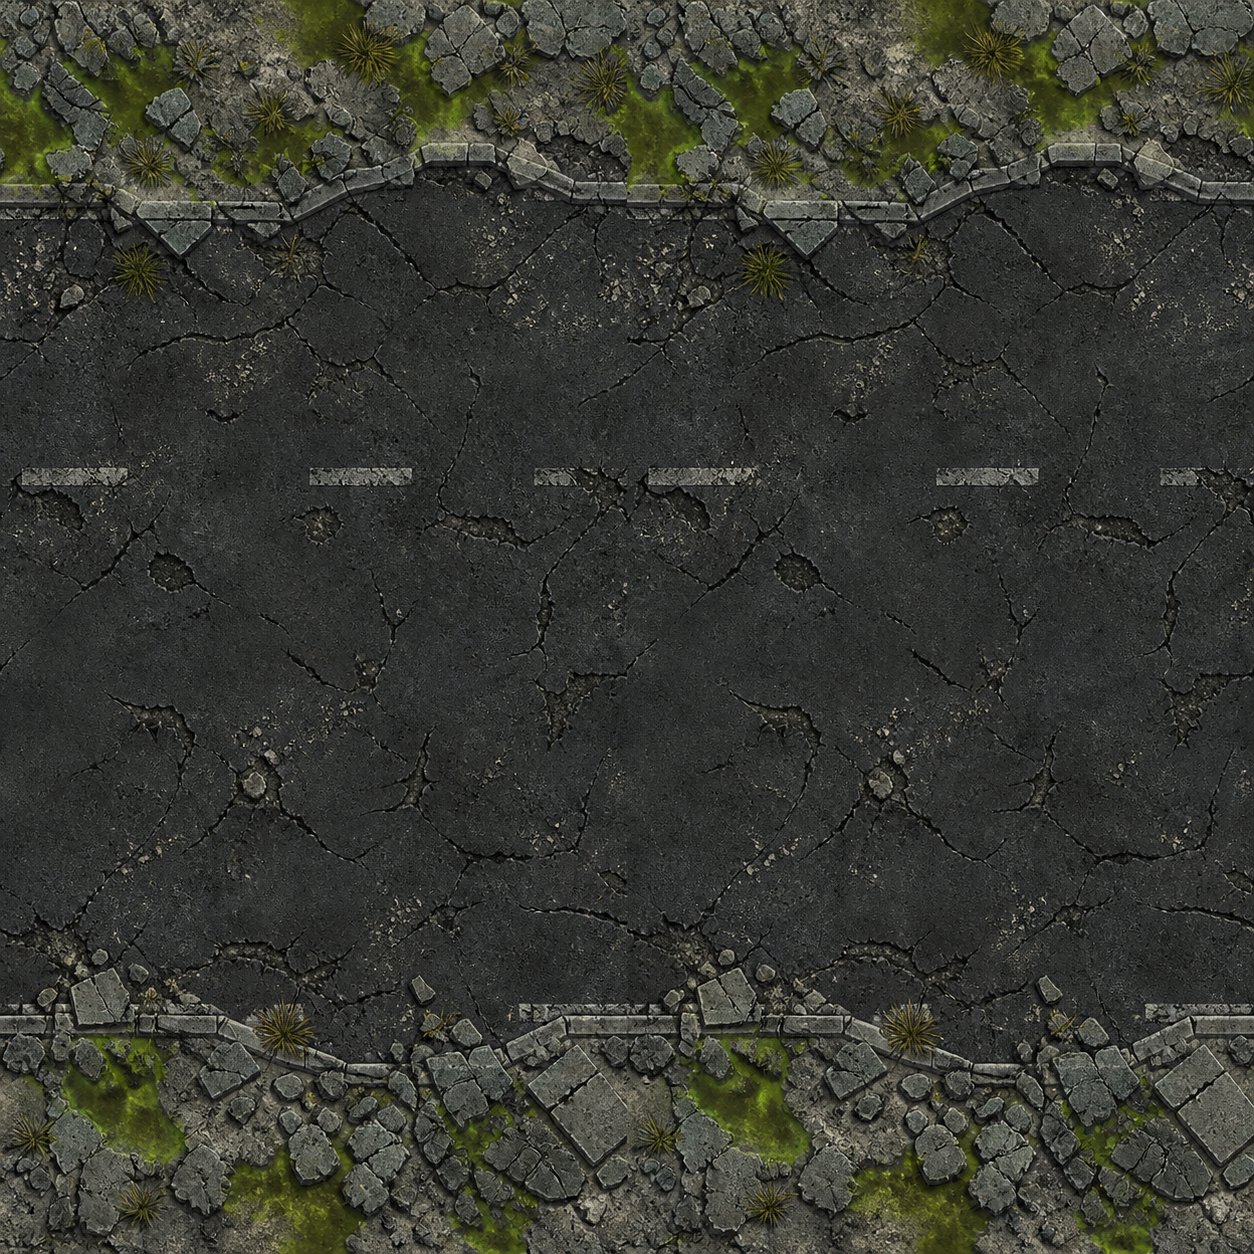
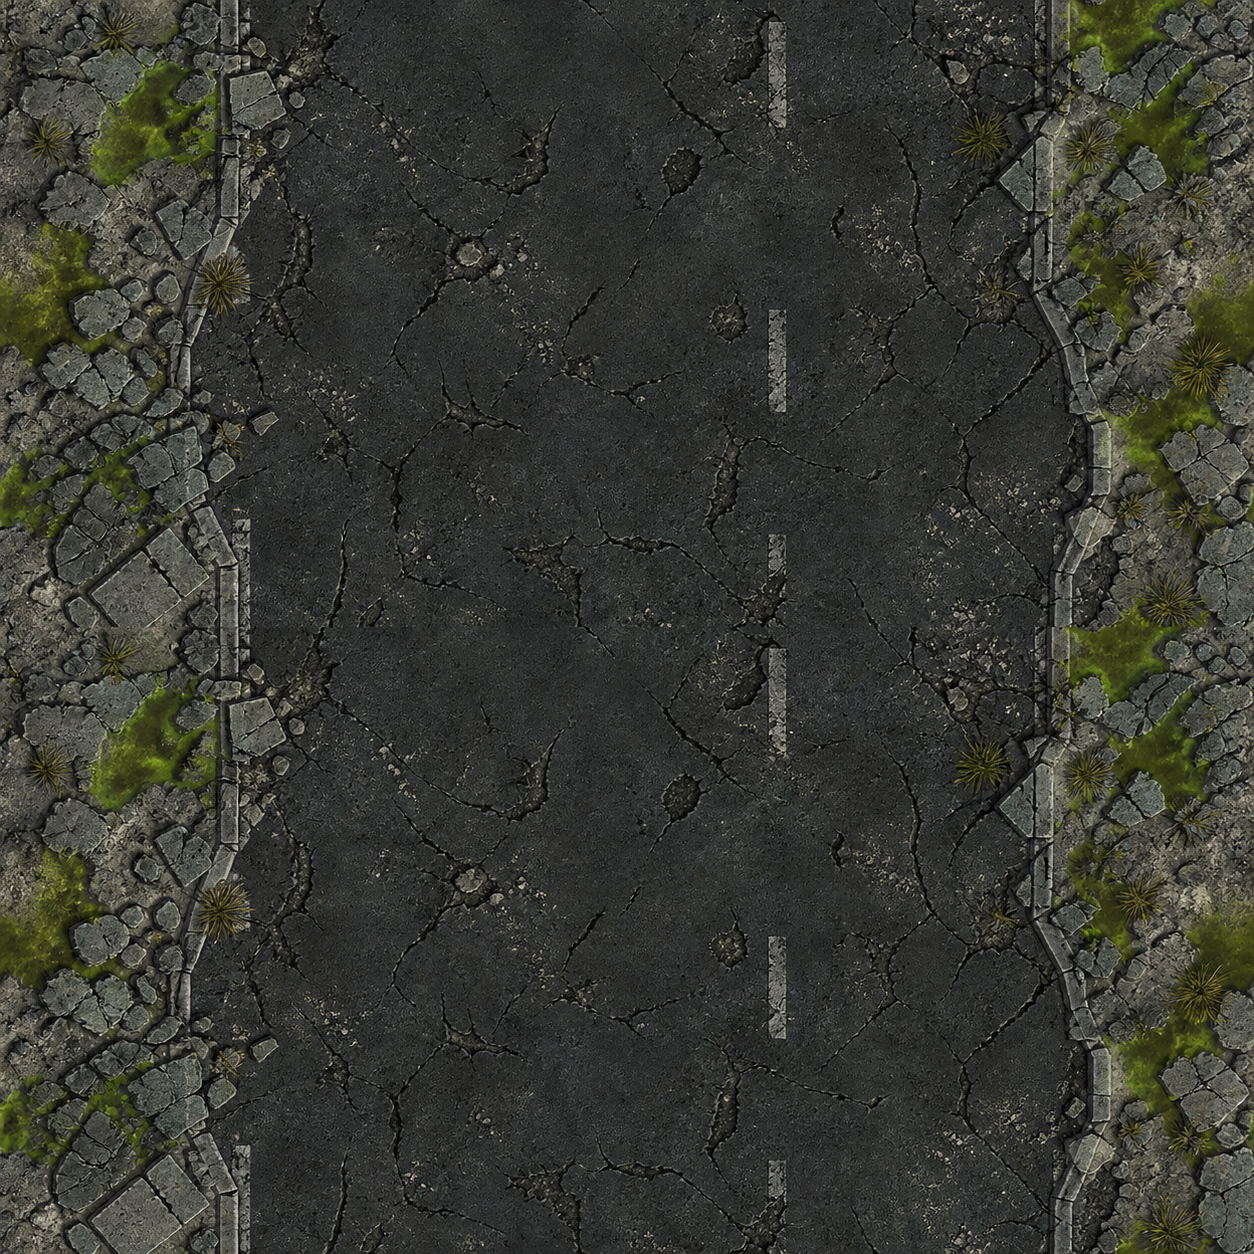
fix: bordi lane con materiale path e sorgente urban verticale (fase 2)
Bordi/incroci delle lane tematiche: se nessuna strada principale attraversa
la cella, road_edge/road_curve_*/road_intersection risolvono il materiale
path_variation invece del bordo stradale (nuovo helper pubblico
route_cell_uses_lane_surface, tile id semantici invariati).

Il PNG road_border_defined di urban_ruins e' ruotato una tantum a nativo
verticale come gli altri temi; il contratto tema aggiornato elimina il caso
speciale di orientamento. Bump TileBakeCache.FORMAT_VERSION 22->23 per
invalidare le mappe material pre-unificazione.

Guardrail: probe lane-edge in generated_texture_test, review QA lane-aware.
GUT assets/environment verdi; QA toxic/review/generated_art exit 0.

diff --git a/assets/README.md b/assets/README.md
@@ -122,19 +122,24 @@ dettaglio/storico e non sono piu superfici runtime strada. Il manifest registra 
 stato `final`, provenienza `openai_image_generation`, licenza
 `Project original` e le liste di ruoli.
 Ogni `road_border_defined` resta un solo sorgente PNG, ma il runtime lo espone
-come due materiali orientati. La source orientation viene letta per tema:
-`urban_ruins` e nativo orizzontale, quindi `__horizontal` usa la sorgente e
-`__vertical` la variante ruotata; gli altri temi attivi restano nativi
-verticali. Le celle route mantengono i propri tile semantici; cambia solo il
-materiale di superficie scelto dal resolver.
+come quattro materiali: bordo `__vertical`/`__horizontal` e core interno
+`__core_vertical`/`__core_horizontal` (banda centrale ritagliata, senza le
+strisce di bordo). Dal pass di unificazione strade tutti i sorgenti sono
+nativi verticali (`urban_ruins` e stato ruotato una tantum su disco); la
+source orientation resta un campo del contratto tema
+(`THEME_CONTRACTS.native_border_orientation`). Le celle route mantengono i
+propri tile semantici; cambia solo il materiale di superficie scelto dal
+resolver.
 La board `generated_biome_art_visual_qa.gd` mostra entrambe le varianti runtime
 per `urban_ruins`, `volcanic`, `frozen_tundra` e `swamp`.
 
 I set generati sono materiali di superficie per ground, route e cliff. Nei
-quattro biomi con `generated_theme_id`, `main_road`, `road` e
-`road_intersection` usano i PNG `road_border_defined` come materiali orientati
-`__vertical`/`__horizontal`, mentre `service_lane`, `ash_lane`,
-`packed_snow_path` e `wooden_walkway` usano `path_variation`.
+quattro biomi con `generated_theme_id`, le celle interne `main_road`/`road`
+usano il core `road_border_defined__core_vertical`/`__core_horizontal`,
+mentre `road_edge`, `road_curve_*` e `road_intersection` usano il bordo
+orientato `__vertical`/`__horizontal`; `service_lane`, `ash_lane`,
+`packed_snow_path` e `wooden_walkway` usano `path_variation`, anche sui
+propri bordi e incroci quando nessuna strada principale attraversa la cella.
 `tile_id` e sezione restano quelli del manifest per semantica, collisioni e
 debug, ma `material_asset_id`/`material_asset_path` puntano ai raster generated.
 Anche i passage road-like tra biomi (`bridge`, `snow_pass`, `broken_gate`,

diff --git a/docs/biome_road_unification_plan.md b/docs/biome_road_unification_plan.md
@@ -1,8 +1,8 @@
 # Report differenze biomi + piano di unificazione strade
 
-Stato: 2026-07-09 — fasi 0 e 1 eseguite (vedi note in fondo alle rispettive
-sezioni); fasi 2-5 aperte. Il report differenze descrive lo stato *precedente*
-alle fasi eseguite.
+Stato: 2026-07-09 — fasi 0, 1 e 2 eseguite (vedi note in fondo alle
+rispettive sezioni); fasi 3-5 aperte. Il report differenze descrive lo stato
+*precedente* alle fasi eseguite.
 
 Fonte del problema percepito ("non si capisce piu niente"): oggi convivono
 **tre pipeline di rendering strada diverse** piu una serie di eccezioni
@@ -174,6 +174,20 @@ e `biome_rendering_review` exit 0, ispezione immagini frozen/toxic.
   `urban_ruins_terrain_27_road_border_defined_01.png` in verticale (una
   tantum) ed eliminare `ROAD_BORDER_HORIZONTAL_SOURCE_THEME_IDS` e il caso
   speciale runtime.
+
+**Eseguita 2026-07-09.** Bordi/incroci lane: nuovo helper pubblico
+`IsometricTileResolver.route_cell_uses_lane_surface` — se nessuna strada
+principale attraversa la cella, `road_edge`/`road_curve_*`/`road_intersection`
+risolvono `ROLE_PATH` (materiale `path_variation`) invece del bordo stradale;
+il tile id semantico resta invariato. Asset urban: PNG ruotato 90° CW su disco
+(ora nativo verticale come gli altri temi), contratto
+`native_border_orientation` aggiornato; il campo resta nel contratto per
+eventuali temi futuri, il codice runtime e' gia' generico. Bump
+`TileBakeCache.FORMAT_VERSION` 22→23 per invalidare le mappe material bake-ate
+con le regole pre-unificazione. Guardrail: probe lane-edge in
+`generated_texture_test.gd` (bordo lane = `path_variation`), review QA
+lane-aware, board `generated_biome_art` invariata (legge l'orientamento dal
+contratto). GUT assets+environment verdi, QA toxic/review/generated_art exit 0.
 
 ### Fase 3 — Unificare i due rami del resolver
 

diff --git a/CHANGELOG.md b/CHANGELOG.md
@@ -8,6 +8,18 @@ consolidati in `README.md`, `ROADMAP.md`, `ARCHITECTURE.md`, `GAME_DESIGN.md`,
 
 ### Added
 
+- Unificazione strade biomi, fase 2 (`docs/biome_road_unification_plan.md`):
+  i bordi e gli incroci delle lane tematiche (`service_lane`, `ash_lane`,
+  `packed_snow_path`, `wooden_walkway`, `broken_street`) renderizzano il
+  materiale `path_variation` invece del bordo stradale quando nessuna strada
+  principale attraversa la cella (nuovo
+  `IsometricTileResolver.route_cell_uses_lane_surface`, tile id semantici
+  invariati); il PNG `road_border_defined` di `urban_ruins` e' stato ruotato
+  una tantum a nativo verticale come gli altri temi, eliminando il caso
+  speciale di orientamento; bump `TileBakeCache.FORMAT_VERSION` 22→23 per
+  invalidare le mappe material pre-unificazione. Guardrail lane-edge in
+  `generated_texture_test.gd` e review QA lane-aware; GUT assets/environment
+  e QA visuale toxic/review/generated_art verdi.
 - Unificazione strade biomi, fasi 0-1 (`docs/biome_road_unification_plan.md`):
   `BiomeGeneratedArtCatalog` ora deriva sampling, stile strada, orientamento
   nativo del bordo e declassamenti ground da un contratto unico per tema

diff --git a/docs/biome_art_vis_fix_roadmap.md b/docs/biome_art_vis_fix_roadmap.md
@@ -196,9 +196,11 @@ di rubble (variation 02/03: lichene chiaro e ghiaia bruna passano a `detail`),
 eliminando la scacchiera di pannelli per macro-cella. Le route dei temi
 generati usano i PNG `road_border_defined` orientati per
 `main_road`/`road`/incroci, bordi e passage `broken_gate` con relative
-entry/exit; `urban_ruins` ha source orizzontale, quindi le strade verticali
-usano la variante ruotata per portare i bordi sui lati reali. I
-`path_variation` restano per le lane tematiche. Gli edifici generati sono stati
+entry/exit; dal pass di unificazione strade 2026-07-09 la source `urban_ruins`
+e' stata ruotata una tantum a nativa verticale come gli altri temi, quindi non
+serve piu' il caso speciale di orientamento. I `path_variation` restano per le
+lane tematiche, ora anche sui loro bordi e incroci quando nessuna strada
+principale attraversa la cella. Gli edifici generati sono stati
 ridisegnati nel pass trasversale (vedi "Residui e riclassificazioni" per le
 pozze). QA dedicata:
 `tests/visual_qa/biome_art_toxic_wastes_visual_qa.gd`; guardrail esteso in